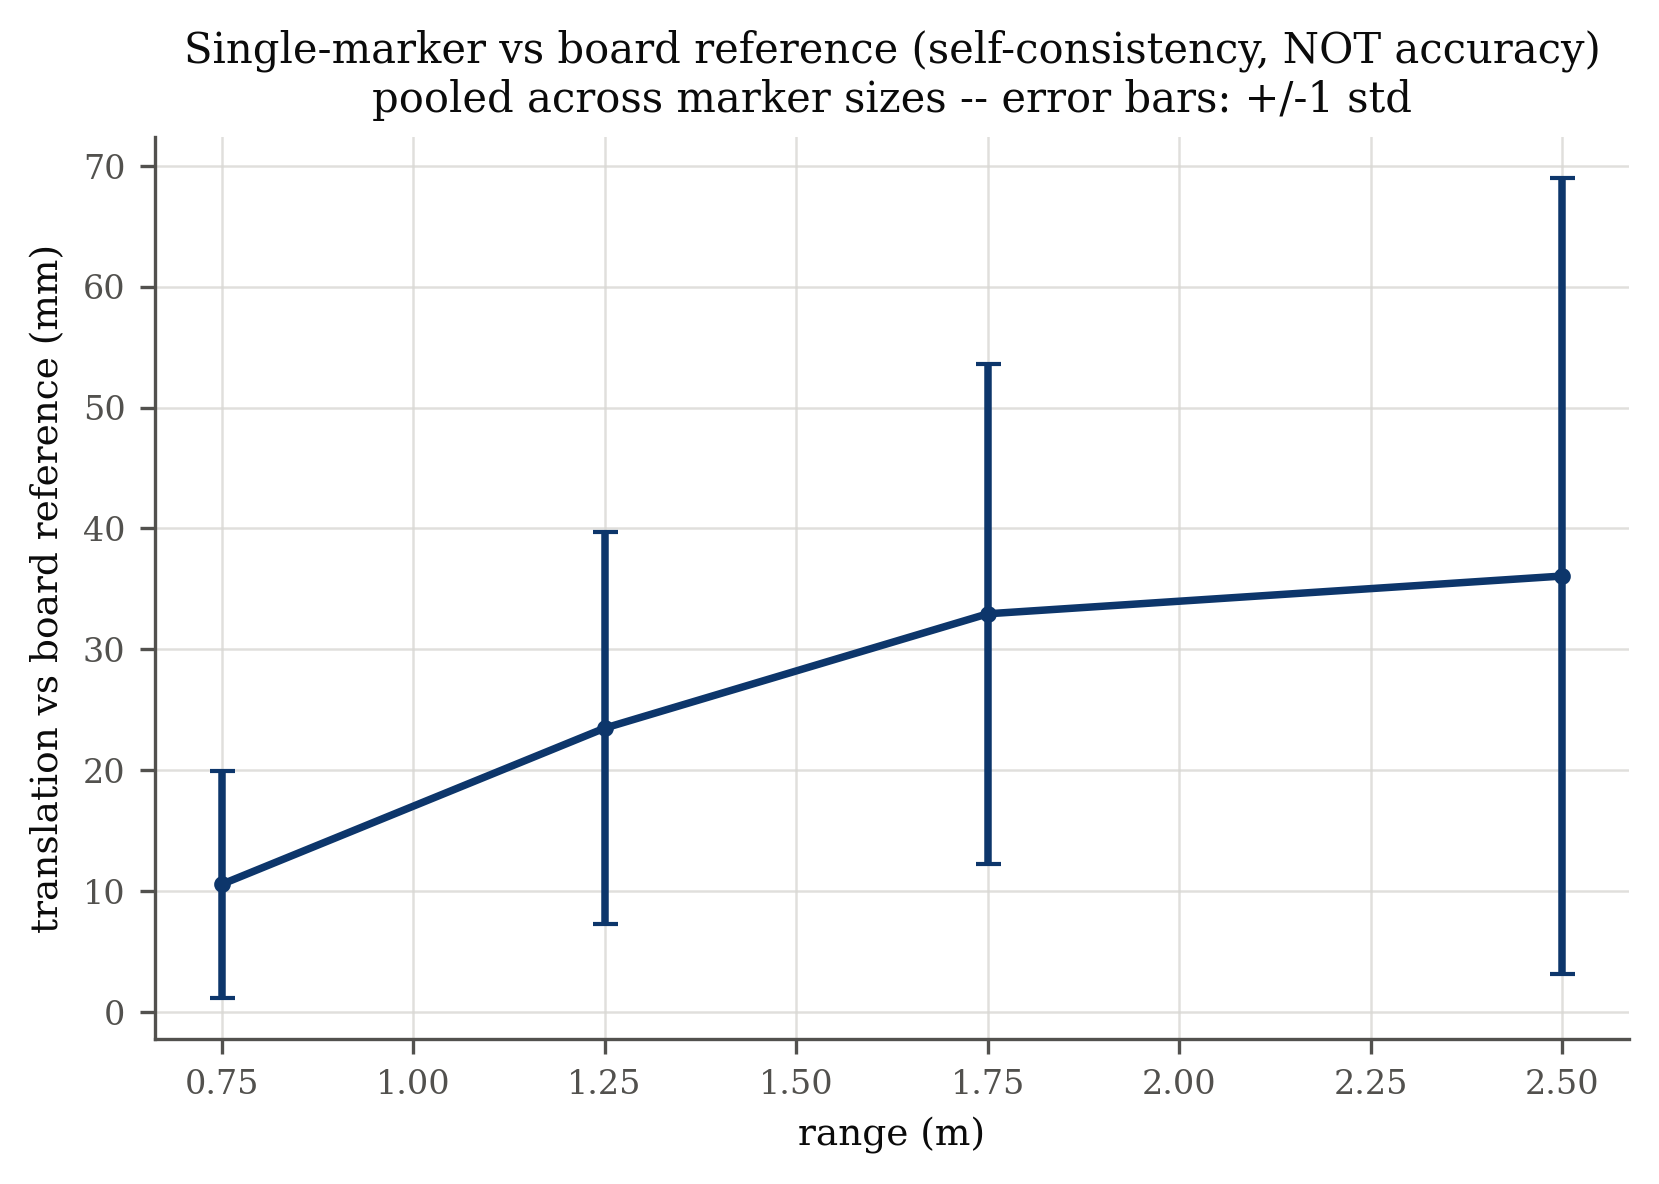
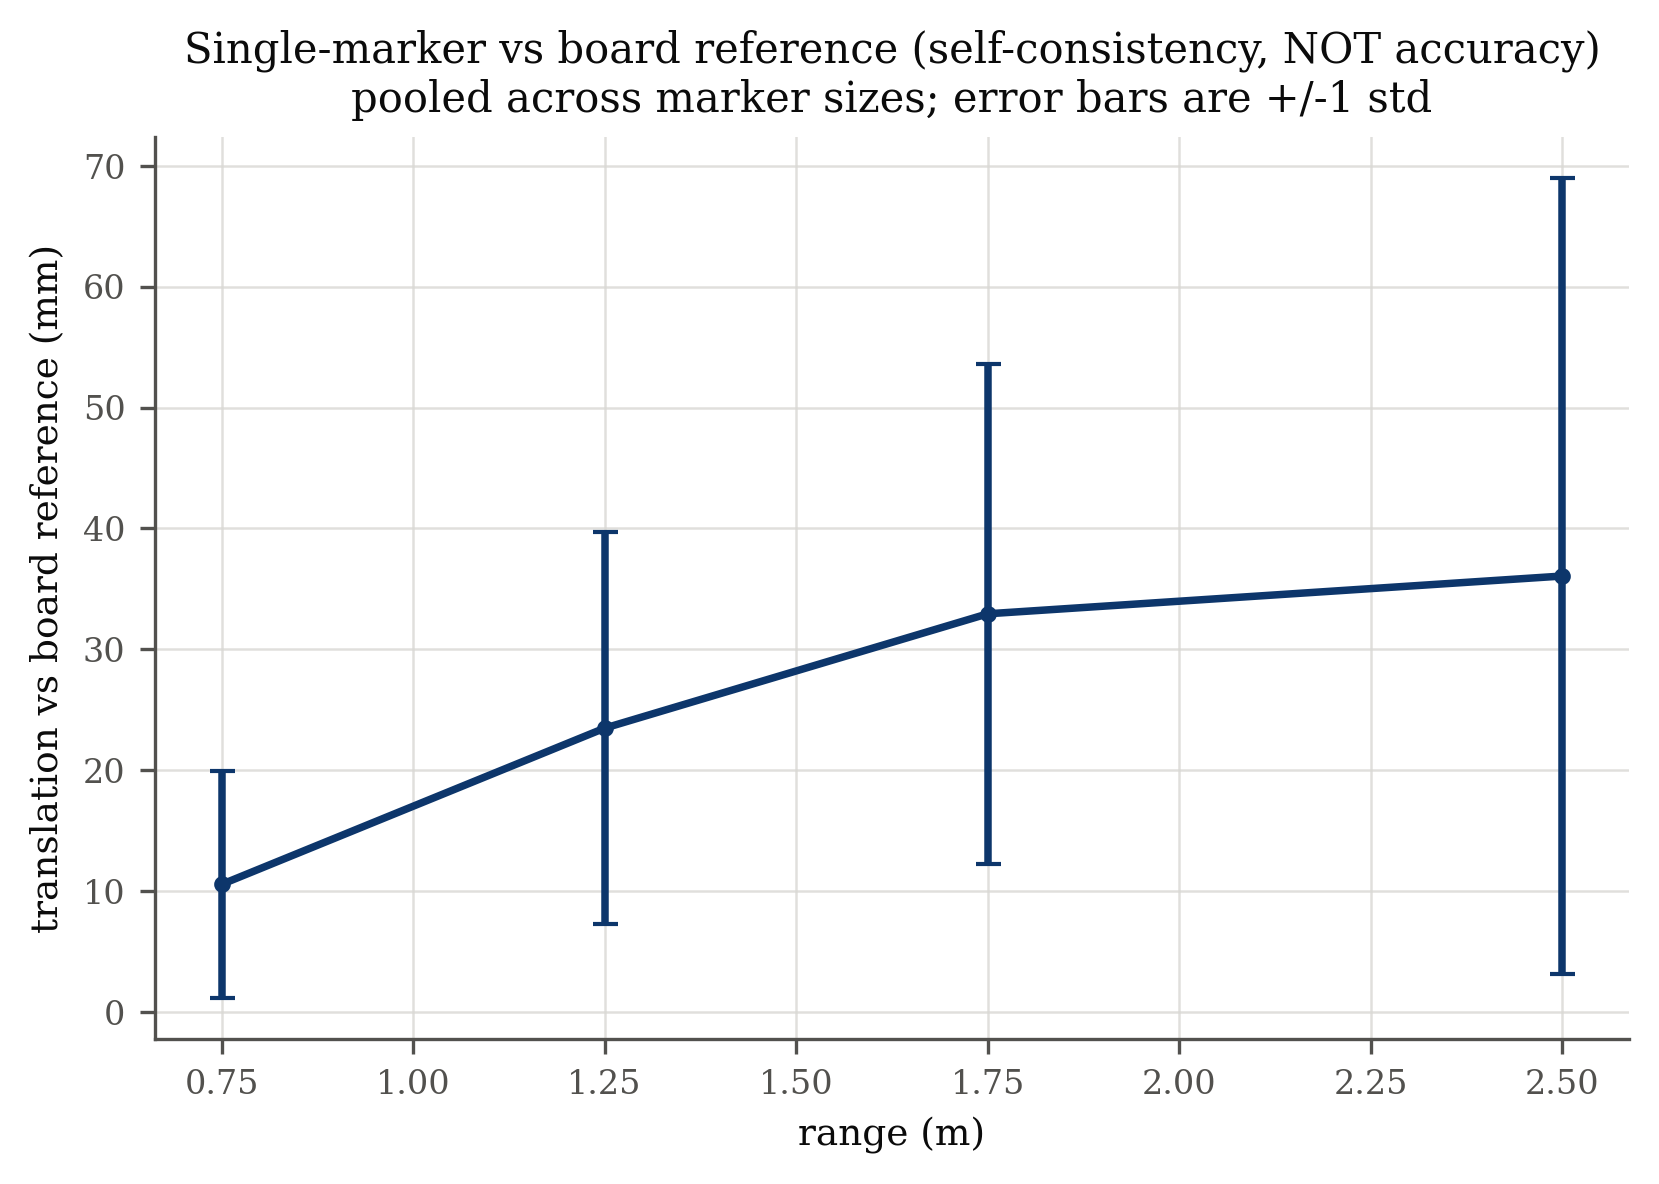
results(aruco): no dashes in figure text; walk-back title derived from data
Regenerated from alanchoi00/underwater-aruco-validation@4f418b6.
Figure prose now uses semicolons, commas and full stops rather than dashes. The
walk-back title reads 5.1 m from the data instead of a hardcoded 4.9 m left over from
the previous range estimator. No metric or claim changed.

Refs #2.

Changed region(s): [[0.2152, 0.0625, 0.8608, 0.0938]]

diff --git a/report/final/data/aruco/summary.md b/report/final/data/aruco/summary.md
@@ -1,6 +1,6 @@
 # Results summary
 
-- Analysis code: `alanchoi00/underwater-aruco-validation@e5af75f`
+- Analysis code: `alanchoi00/underwater-aruco-validation@4f418b6`
 - OpenCV: `4.10.0`
 - Fitted law: `max_range ~ 34.9 x side_length`
 - Host CPU (latency context): `11th Gen Intel(R) Core(TM) i7-11800H @ 2.30GHz`
@@ -12,7 +12,7 @@
 - 3 bin(s) with fewer than 10 trials were suppressed from the detection-rate figures (their Wilson CI spans most of the axis and would dominate the plot with no information); the full per-bin table, including these, is still in `detection_trials_test1.csv` / `detection_trials_test2.csv`. Suppressed: 75 mm, 8-12 px, n=2; 75 mm, 100-140 px, n=2; 149 mm, 200-300 px, n=1.
 - 1 bin(s) with fewer than 10 trials were suppressed from the pose-error-vs-range figure (pooled across marker sizes; n=1-3 bins were near-empty and would carry a std of NaN or an unrepresentative one); the full per-bin table, including these, is still in `trans_err_vs_range.csv`. Suppressed: 3.0-4.0 m, n=3.
 - 1 bin(s) with fewer than 10 trials were suppressed from the rotation-error-vs-range figure (same pooling and suppression as the translation-error figure above); the full per-bin table, including these, is still in `rot_err_vs_range.csv`. Suppressed: 3.0-4.0 m, n=3.
-- The pose-error-vs-range figure is pooled across marker sizes, not broken down per size: the leave-one-out board reference used by `pose_error_vs_reference` gets weaker when 201/202 are the marker under test (only the narrow centre cluster remains as reference) and stronger when a small marker is under test (201+202, 427 mm apart, remain) -- a per-size split would measure that reference confound, not marker quality, and read backwards (see `analysis/metrics.py`).
+- The pose-error-vs-range figure is pooled across marker sizes, not broken down per size: the leave-one-out board reference used by `pose_error_vs_reference` gets weaker when 201/202 are the marker under test (only the narrow centre cluster remains as reference) and stronger when a small marker is under test (201+202, 427 mm apart, remain). A per-size split would measure that reference confound, not marker quality, and read backwards (see `analysis/metrics.py`).
 
 ## test1
 
@@ -45,12 +45,12 @@
   - 201 (149 mm): max range 4.98 m
   - 202 (149 mm): max range 4.73 m
 
-## Stage 4 - IMU validation (camera-independent)
+## Stage 4: IMU validation (camera-independent)
 
 - Gravity check PASSES: board tilt from vertical over 323 frames = 6.64 deg median, std 6.89 deg (low std = PnP attitude consistent with the absolute IMU gravity reference). This is the camera-independent validation.
 
 - Yaw check: 7/25 turn segments were evaluable (board-pose coverage >= 80%); the rest had the board leave frame partway through the turn, so vision under-reports the rotation there and they are excluded rather than compared. Gyro measures yaw about the IMU's up (+z) axis while PnP yaw is about the optical frame's down (+y) axis, so an opposite sign between the two is the expected convention, not a discrepancy.
-  Even restricted to these full-coverage segments, vision's magnitude does not consistently track the gyro's (see per-segment numbers below) -- the yaw check does not corroborate the gravity check on this dataset. The gravity check above remains the sole camera-independent validation; the yaw numbers are reported for completeness, not as a passing check.
+  Even restricted to these full-coverage segments, vision's magnitude does not consistently track the gyro's (see per-segment numbers below), so the yaw check does not corroborate the gravity check on this dataset. The gravity check above remains the sole camera-independent validation; the yaw numbers are reported for completeness, not as a passing check.
   - turn 882.9-884.2s (coverage 100%): vision -23.6 deg, gyro 19.3 deg
   - turn 911.6-912.9s (coverage 100%): vision -6.2 deg, gyro 15.3 deg
   - turn 915.1-916.1s (coverage 100%): vision 7.5 deg, gyro 16.0 deg